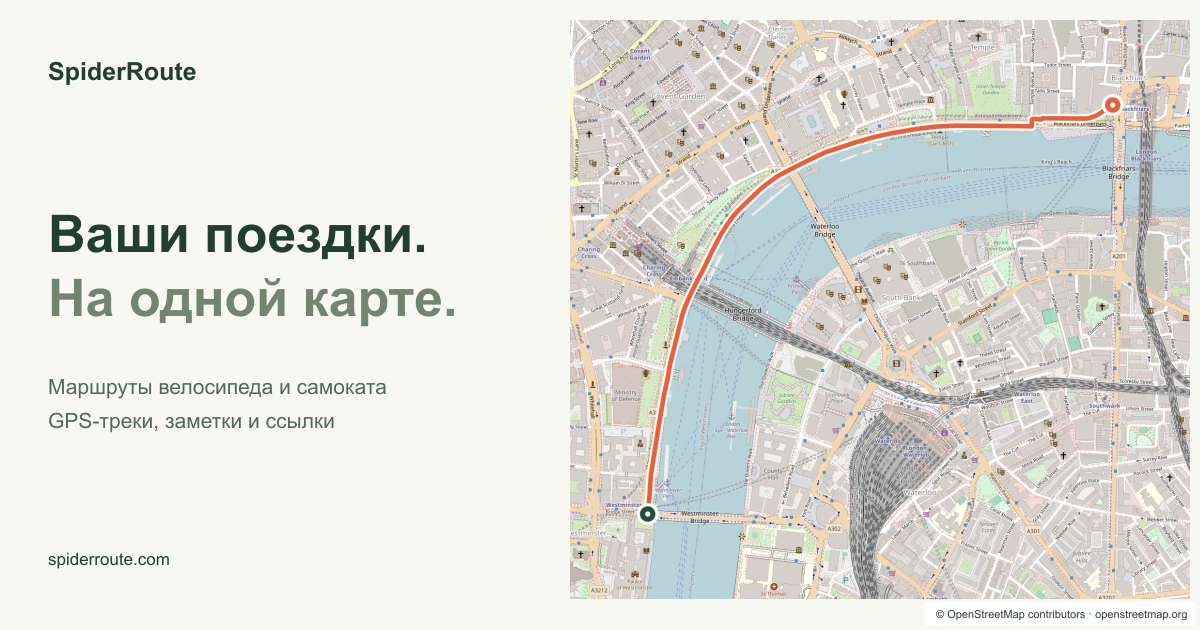
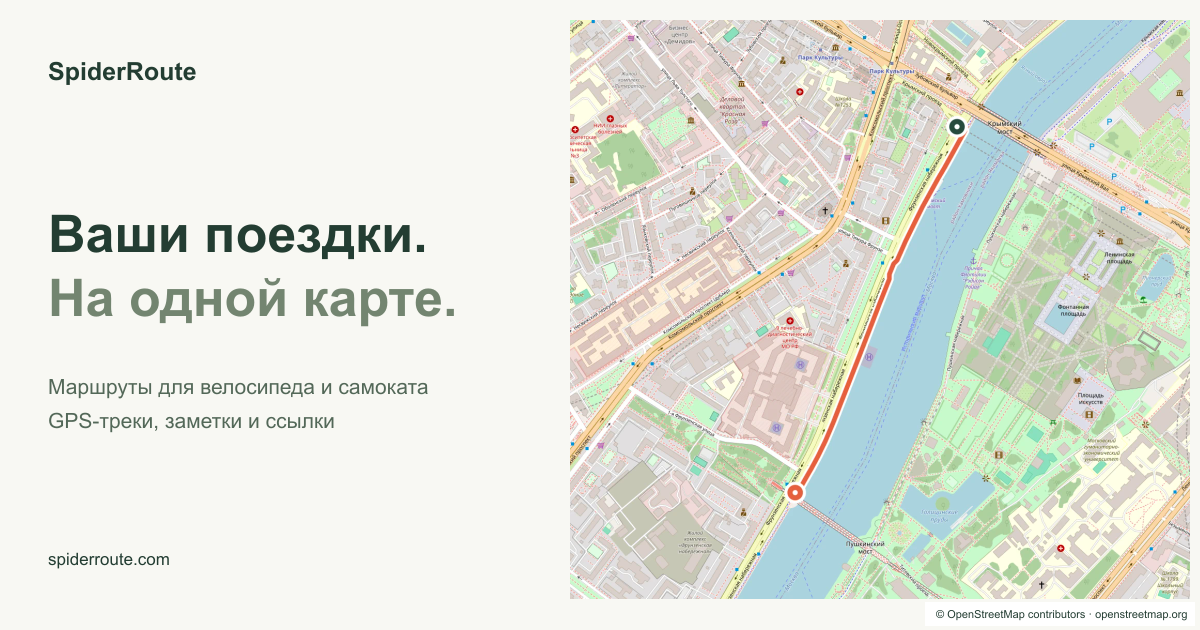
Use Moscow route imagery for the Russian landing

diff --git a/src/lib/landing.ts b/src/lib/landing.ts
@@ -106,15 +106,15 @@ export const landingCopy = {
       "SpiderRoute — редактор маршрутов с открытым исходным кодом. Загрузите поездку из GPS-приложения, исправьте трек, отметьте полезные остановки и поделитесь картой, которая откроется на любом телефоне.",
     open: "Открыть редактор",
     shortOpen: "Открыть",
-    mapTitle: "Вдоль Темзы",
-    mapLocation: "Лондон · Cycleway 3",
-    mapDistance: "2,1 км",
-    mapFrom: "Вестминстер",
-    mapTo: "Блэкфрайарс",
+    mapTitle: "Вдоль Москвы-реки",
+    mapLocation: "Москва · Фрунзенская набережная",
+    mapDistance: "1,1 км",
+    mapFrom: "Крымский мост",
+    mapTo: "Пушкинский мост",
     mapCaption:
-      "Пример веломаршрута по набережной Виктории вдоль велодорожки на карте.",
+      "Пример маршрута по Фрунзенской набережной с видом на Парк Горького.",
     mapAlt:
-      "Карта центра Лондона с коралловой линией по велодорожке Cycleway 3 от Вестминстера до Блэкфрайарса вдоль северного берега Темзы.",
+      "Карта Москвы с коралловым маршрутом по Фрунзенской набережной от Крымского до Пушкинского моста.",
     mapSource: "Посмотреть в OpenStreetMap",
     toolsTitle: "Редактируйте трек и добавляйте заметки.",
     toolsIntro:

diff --git a/src/app/page.tsx b/src/app/page.tsx
@@ -180,7 +180,11 @@ export default async function Home({ searchParams }: Props) {
               <p>{t.mapCaption}</p>
               <a
                 className="text-link"
-                href="https://www.openstreetmap.org/#map=15/51.5062/-0.1143"
+                href={
+                  ru
+                    ? "https://www.openstreetmap.org/#map=16/55.7300/37.5920"
+                    : "https://www.openstreetmap.org/#map=15/51.5062/-0.1143"
+                }
                 target="_blank"
                 rel="noreferrer"
               >
@@ -190,7 +194,7 @@ export default async function Home({ searchParams }: Props) {
             </figcaption>
             <div className="london-map">
               <img
-                src="/maps/london-c3.webp"
+                src={ru ? "/maps/moscow-gorky.webp" : "/maps/london-c3.webp"}
                 width="1200"
                 height="1120"
                 alt={t.mapAlt}

diff --git a/public/maps/README.md b/public/maps/README.md
@@ -7,3 +7,9 @@ Map and route data © [OpenStreetMap contributors](https://www.openstreetmap.org
 The snapshot covers one viewport, rendered once for the landing page; it is served as a local asset. Page views do not request map tiles or load a map engine. Preserve the visible attribution when using this image. Source tiles are cached privately and are not a redistributable offline tile package. Do not fetch map assets during a build or CI run.
 
 Cycleway context: [Transport for London's central London cycleway map](https://content.tfl.gov.uk/central-london-cycleways-map-a3.pdf).
+
+## Russian landing: Moscow
+
+`moscow-gorky.webp` shows a 1.1 km example route along Frunzenskaya Embankment, opposite Gorky Park, between Krymsky and Pushkinsky bridges. The connected path geometry in `moscow-gorky.geojson` comes from OpenStreetMap API 0.6, retrieved 16 September 2026, and includes the source way IDs. It is an illustrative route, not a recorded ride or an assurance of current access conditions.
+
+Map and route data © OpenStreetMap contributors; the geometry is available under ODbL 1.0, as linked above. This single viewport uses unfiltered OSM Standard tiles. Preserve the page's visible attribution. The Russian social card uses this Moscow image and embeds attribution; the English landing and social card retain London.
